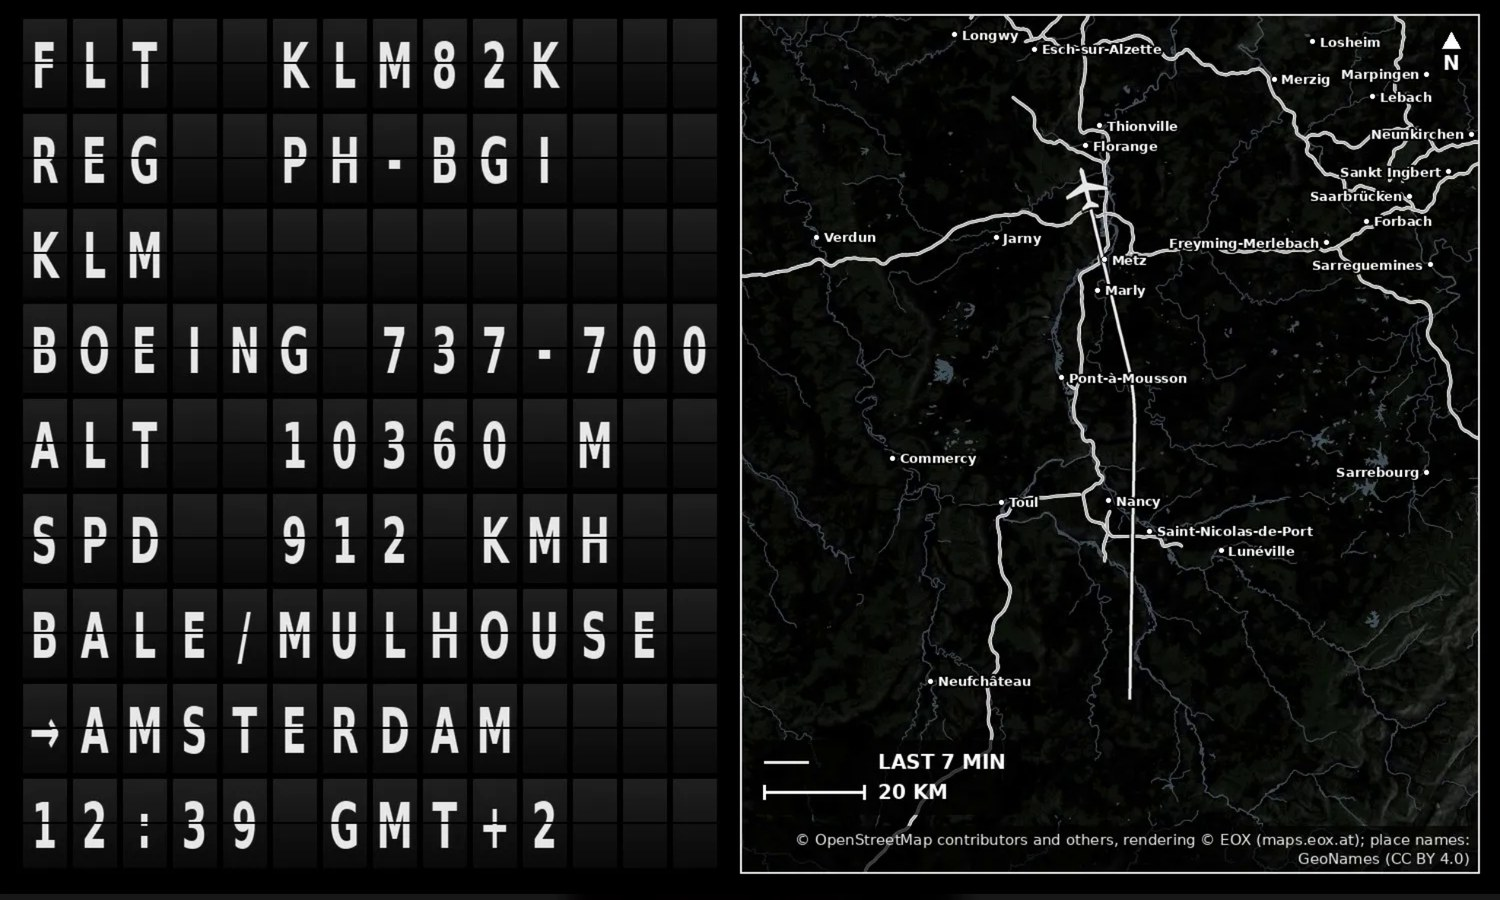
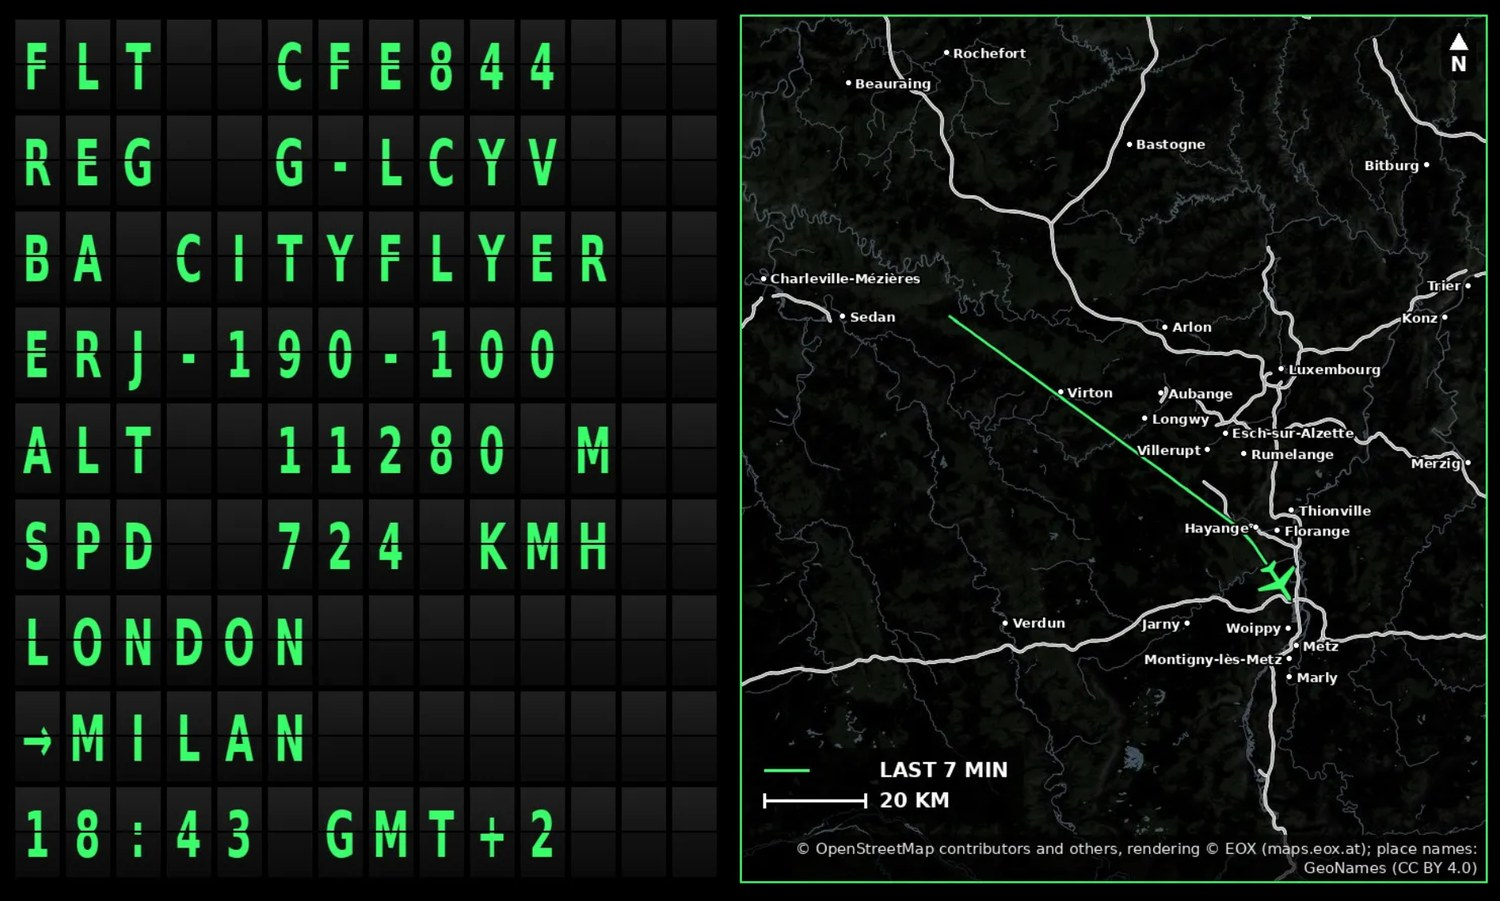
Docs: the first post with the region's list; documentation after every change (#125)

Changed region(s): [[0.0, 0.0, 1.0, 0.9956], [0.736, 0.8089, 0.7973, 0.8711]]

diff --git a/CLAUDE.md b/CLAUDE.md
@@ -52,7 +52,8 @@ on Wi-Fi, near Trémery (Moselle). The owner tests on it; a session never reache
 5. Commit as the owner: `git -c user.name=regis57 -c user.email=regis.hennequin@gmail.com commit`.
    **No `Co-authored-by`, no "Generated with" lines** — the owner's standing rule.
 6. Push, open the PR with `gh api repos/regis57/ZenithBoard/pulls` (body from a file), wait for the five checks
-   (CodeQL, analyze python, analyze javascript, test ×2), then squash-merge with
+   (CodeQL, analyze python, analyze javascript, test ×2) **and check each one's conclusion is `success`** — 0.27.0
+   was merged with CodeQL failing because only "completed" was checked — then squash-merge with
    `gh api -X PUT .../pulls/N/merge -f merge_method=squash -f sha=…`. Check `commits/main` is verified and
    `releases/latest` carries the new tag (the release workflow tags `v<version>` by itself).
 7. Sync the wiki: GitHub's wiki is a separate repository; `docs/wiki/*.md` is the source. From the owner's
@@ -60,7 +61,11 @@ on Wi-Fi, near Trémery (Moselle). The owner tests on it; a session never reache
    `raw.githubusercontent.com/regis57/ZenithBoard/main/docs/wiki/NAME.md`, fetch `/wiki/NAME/_edit`, POST the
    form with `wiki[body]`, `wiki[format]=markdown`, `wiki[commit]`, and verify the stored body equals the file.
    A new page goes through `/wiki/_new` first. Without his browser, say the wiki is not synced.
-8. Tell the owner, in French, what changed and, when the Pi needs it, the command:
+8. **Documentation after every change, without being asked** (the owner's standing rule, 20 October 2026):
+   README, `docs/wiki/*.md`, CHANGELOG, the field log in Project-status (what the owner's paste or recording
+   showed), and the pictures in `docs/images/` when what they show has changed, then the wiki sync of step 7.
+   A doc-only change goes through the same PR and checks, with no version bump. Report the pages updated.
+9. Tell the owner, in French, what changed and, when the Pi needs it, the command:
    `cd ~/ZenithBoard && sudo zenithboard update` (or `sudo zenithboard update quick` for ZenithBoard and the
    wall alone). A config value the owner set is never changed by an update: the update says so and gives the command.
 

diff --git a/docs/wiki/Project-status.md b/docs/wiki/Project-status.md
@@ -57,6 +57,7 @@ Short notes from the Pi that is actually outside. Kept because the second time s
 
 | When | What happened |
 |---|---|
+| 20 October 2026, 18:43 | First post with the region's own list: CFE844 (BA CityFlyer, London → Milan) on the dark map names Hayange, Florange, Villerupt and Aubange, none of which the shipped list of 5 000 had on a map with this many towns. Now the dark-map example in Social sharing. 0.27.2 on the Pi made the list from nine files, 55 164 places, as expected |
 | 20 October 2026, 18:30 | 0.27.2, from the line above: the countries are chosen by their places of 500 or more within 400 km, not by one-degree cells with a margin. Around Trémery: AT BE CH DE FR IT LI LU NL, 24 MB; CZ and GB are no longer downloaded. Run `social places on` again to see it; the list kept is the same |
 | 20 October 2026, 18:20 | 0.27.1 on the reference Pi: `social places on` downloaded eleven country files (AT BE CH CZ DE FR GB IT LI LU NL, 29.4 MB in all) and kept 55 164 places in 676 KB, the same count as the test run in the browser. Two files gave no place within 400 km (CZ and GB: their cells reach within the margin, their places do not). The social service afterwards: 30 MB of memory, as before |
 | 20 October 2026, night | The owner asked whether the town names would work for a user in Indonesia. Measured: GeoNames knows the population of 540 of Indonesia's 258 055 populated places (ID.txt); the shipped lists name 479 places of 5 000 there against 2 074 in France. Test maps with the shipped lists named nothing over East Sumba and Pontianak. 0.27.0 makes a region's own list on the Pi from GeoNames' country files, ranked by population or administrative rank; checked at twelve places on four continents with the real files and tiles (see Social sharing) |

diff --git a/docs/wiki/Social-sharing.md b/docs/wiki/Social-sharing.md
@@ -111,9 +111,9 @@ The wall's rows as the tablet shows them (`FLT  EWG11S`, `REG  D-AIDO`, then air
 
 ![The split-flap picture, light map: EWG86P, Palma to Cologne, a real post of 20 October 2026](https://github.com/regis57/ZenithBoard/raw/main/docs/images/social-flap.jpg)
 
-![The split-flap picture, dark map: KLM82K, Bâle/Mulhouse to Amsterdam, a real post of 20 October 2026](https://github.com/regis57/ZenithBoard/raw/main/docs/images/social-flap-night.jpg)
+![The split-flap picture, dark map: CFE844, BA CityFlyer, London to Milan, a real post of 20 October 2026 with the region's own list of places](https://github.com/regis57/ZenithBoard/raw/main/docs/images/social-flap-night.jpg)
 
-*Real posts from the reference Pi, 20 October 2026 (0.26.1): the light map (`normal`) and the dark one (`night`), each town named once.*
+*Real posts from the reference Pi, 20 October 2026: the light map (`normal`, 0.26.1) and the dark one (`night`, 0.27.2, with the region's own list of places: Hayange, Florange, Villerupt and Aubange beside Metz and Luxembourg), each town named once.*
 
 The board as the wall's split-flap look draws it — the same nine rows, without the flags, fourteen letters wide instead of sixteen so the map gets the room — beside a map centred on the track. On the map: the track and the aircraft in the picture's colour, edged in black so they read on any background; a key in the corner (`LAST 10 MIN`, and a scale bar in km or miles); north; and the map's credit along the bottom.
 
